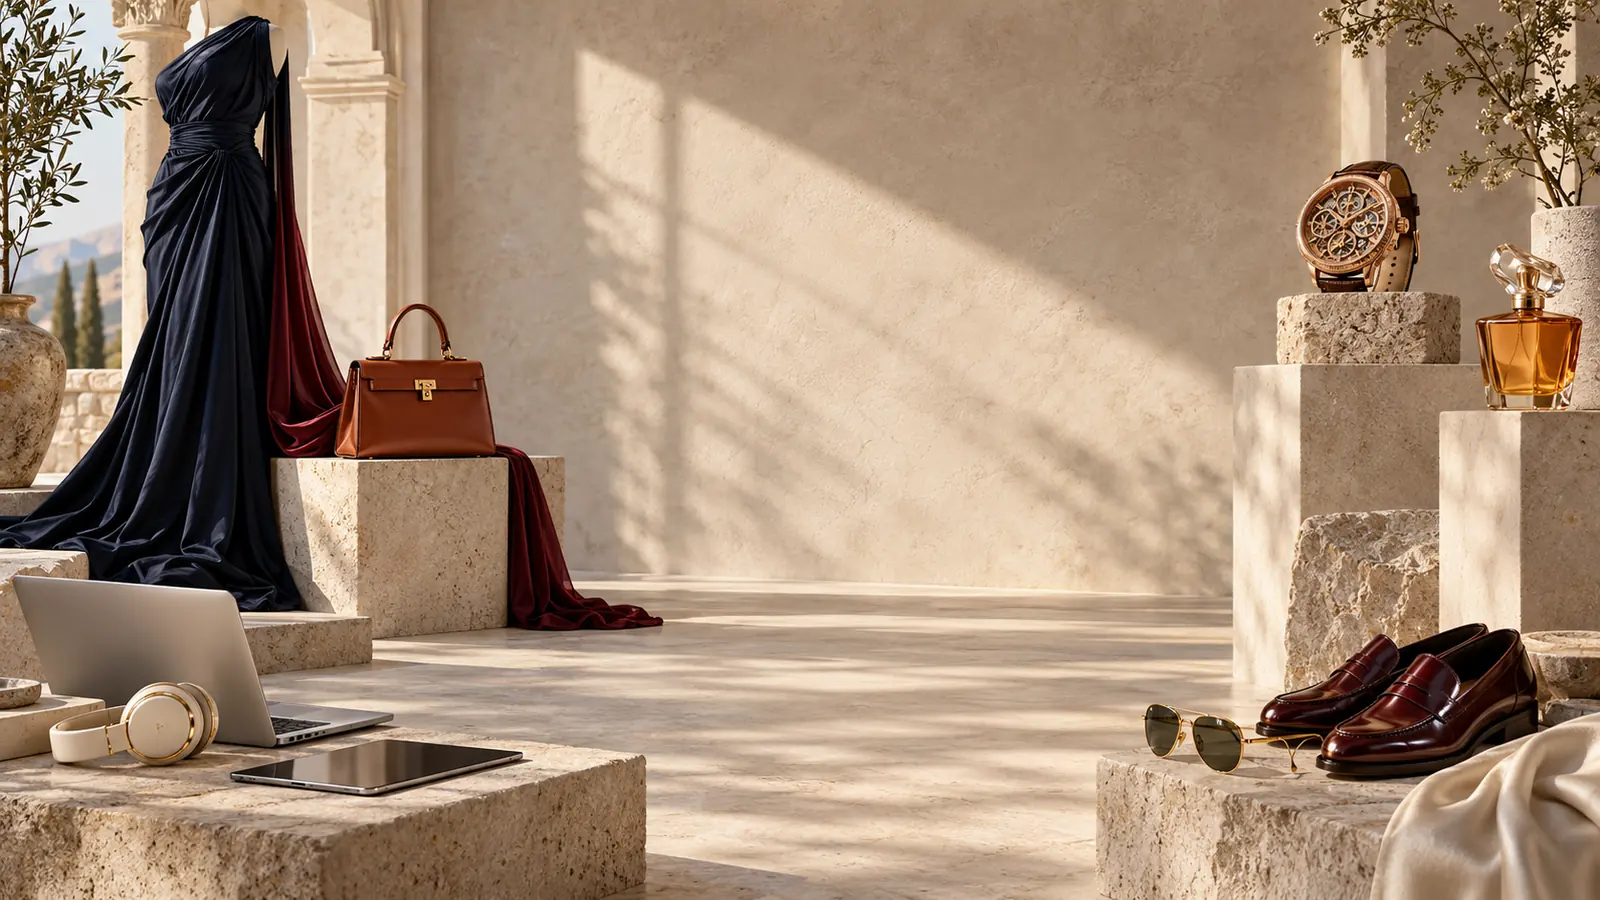
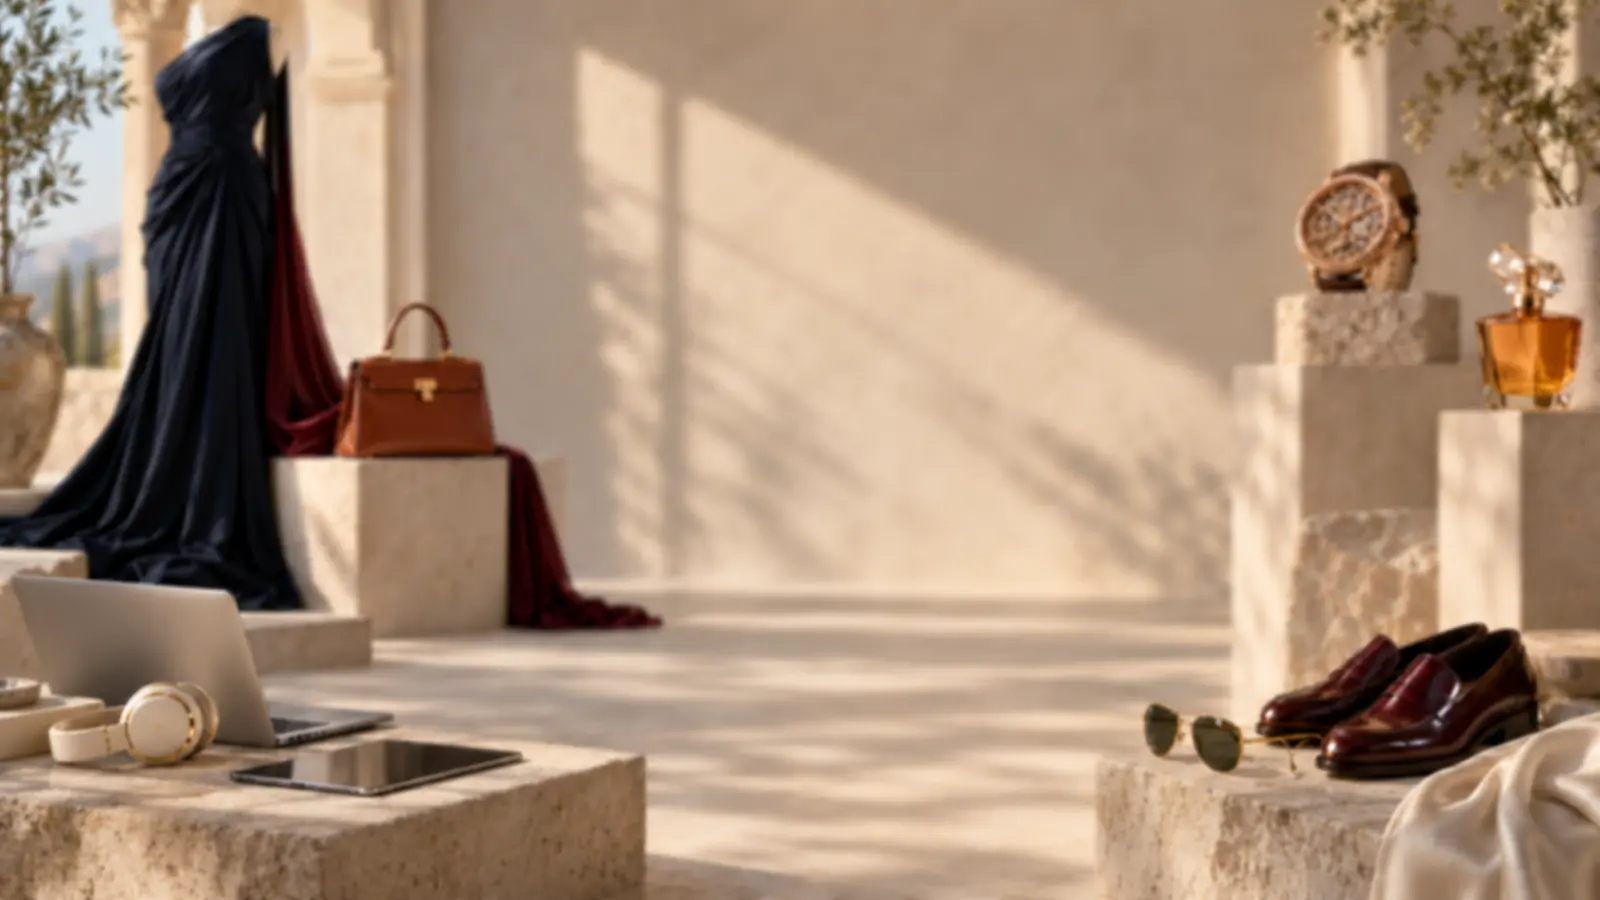
Bake backdrop softness into compressed artwork and remove costly alpha compositing

diff --git a/src/hooks/use-scroll-scenes.ts b/src/hooks/use-scroll-scenes.ts
@@ -152,12 +152,6 @@ export function useHeroParallax(ref: RefObject<HTMLElement | null>) {
           { y: -38, scale: 1.03, ease: "none" },
           0,
         );
-        timeline.fromTo(
-          root.querySelector("[data-hero-world-light]"),
-          { y: -24, opacity: 0.7 },
-          { y: 42, opacity: 0.3, ease: "none" },
-          0,
-        );
         timeline.to(
           root.querySelector("[data-hero-edition]"),
           { opacity: 0, duration: 0.18, ease: "none" },

diff --git a/e2e/refinement.spec.ts b/e2e/refinement.spec.ts
@@ -1134,6 +1134,8 @@ test("collection backdrop moves behind the hero and the brief uses the ivory the
     "true",
   );
   const world = page.locator("[data-hero-world]");
+  await expect(world.locator("img")).toHaveCSS("filter", "none");
+  await expect(world.locator("img")).toHaveCSS("opacity", "1");
   const originalY = await world.evaluate(
     (node) => new DOMMatrixReadOnly(getComputedStyle(node).transform).m42,
   );

diff --git a/src/components/editorial-hero.module.css b/src/components/editorial-hero.module.css
@@ -875,13 +875,6 @@
   height: 100%;
   object-fit: cover;
   object-position: center;
-  filter: blur(5px);
-  opacity: 0.85;
-}
-.worldLight {
-  position: absolute;
-  inset: -60px;
-  background: linear-gradient(110deg, #eae5d99c, transparent 55%, #eae5d94d);
 }
 .hero[data-scroll-active] .worldPlane {
   will-change: transform;

diff --git a/src/components/editorial-hero.tsx b/src/components/editorial-hero.tsx
@@ -107,7 +107,6 @@ export function EditorialHero() {
               />
             </picture>
           </div>
-          <div className={styles.worldLight} data-hero-world-light />
         </div>
         <div className={styles.portal} data-hero-portal>
           <div

diff --git a/README.md b/README.md
@@ -65,7 +65,7 @@ The system is a Next.js modular monolith. Gemini chooses native functions and ge
 | Commerce and operations  | PayPal sandbox · Node worker · local/S3-compatible evidence storage |
 | Verification             | Vitest · Playwright · bounded live-provider checks                  |
 
-The storefront pairs large editorial typography with an ivory architectural setting and a muted-green footer. Real catalog photographs remain separate from the original generated backdrop, compressed to a 59 KB WebP. Lenis wheel inertia, GSAP scroll scenes and overlapping collection cards give foreground objects, typography and background planes independent movement; outgoing cards recede behind the next collection. On larger screens, the opening stays beneath the navigation through an extra viewport of scrolling, giving its layers time to separate: the headline and controls drift downward while the product advances beyond a gently enlarging glass surround. Uniform scaling keeps the planes level. Shorter held scenes carry the movement through the shopping request and closing invitation. A compact Menu opens on hover or activation, with keyboard and touch controls. The bare DALE wordmark and ivory shopping brief follow the same editorial palette. A black, letter-by-letter DALE opening buffers critical hero image decoding, fonts and scroll-scene measurements before releasing the first scroll; it supports Skip and reduced motion. The hero contracts uniformly to 45% while its foreground layers continue advancing against an independently moving, softly blurred collection still-life. Responsive WebP artwork uses 143 KB on large screens and 46 KB on smaller desktop layouts; touch and reduced-motion layouts skip that decorative download. Filters sit above the navigation, and the featured edit has explicit Previous and Next controls. Nearby letters repel from the pointer and spring back; the background and product follow separate damped springs. Glass edges and shadows supply depth without large backdrop filters. Entrance reveals run once when visible. Lenis runs on demand while interpolation is active. Touch and reduced-motion layouts retain native scrolling and ordinary document flow. Fonts are self-hosted, and the featured product image loads eagerly. Homepage requests open the same conversational agent used throughout the storefront.
+The storefront pairs large editorial typography with an ivory architectural setting and a muted-green footer. Real catalog photographs remain separate from the original generated backdrop, compressed to a 59 KB WebP. Lenis wheel inertia, GSAP scroll scenes and overlapping collection cards give foreground objects, typography and background planes independent movement; outgoing cards recede behind the next collection. On larger screens, the opening stays beneath the navigation through an extra viewport of scrolling, giving its layers time to separate: the headline and controls drift downward while the product advances beyond a gently enlarging glass surround. Uniform scaling keeps the planes level. Shorter held scenes carry the movement through the shopping request and closing invitation. A compact Menu opens on hover or activation, with keyboard and touch controls. The bare DALE wordmark and ivory shopping brief follow the same editorial palette. A black, letter-by-letter DALE opening buffers critical hero image decoding, fonts and scroll-scene measurements before releasing the first scroll; it supports Skip and reduced motion. The hero contracts uniformly to 45% while its foreground layers continue advancing against an independently moving, softly blurred collection still-life. Softness is baked into the photograph; opaque responsive WebP artwork uses 43 KB on large screens and 20 KB on smaller desktop layouts; touch and reduced-motion layouts skip that decorative download. Filters sit above the navigation, and the featured edit has explicit Previous and Next controls. Nearby letters repel from the pointer and spring back; the background and product follow separate damped springs. Glass edges and shadows supply depth without large backdrop filters. Entrance reveals run once when visible. Lenis runs on demand while interpolation is active. Touch and reduced-motion layouts retain native scrolling and ordinary document flow. Fonts are self-hosted, and the featured product image loads eagerly. Homepage requests open the same conversational agent used throughout the storefront.
 
 ## Evaluation
 
